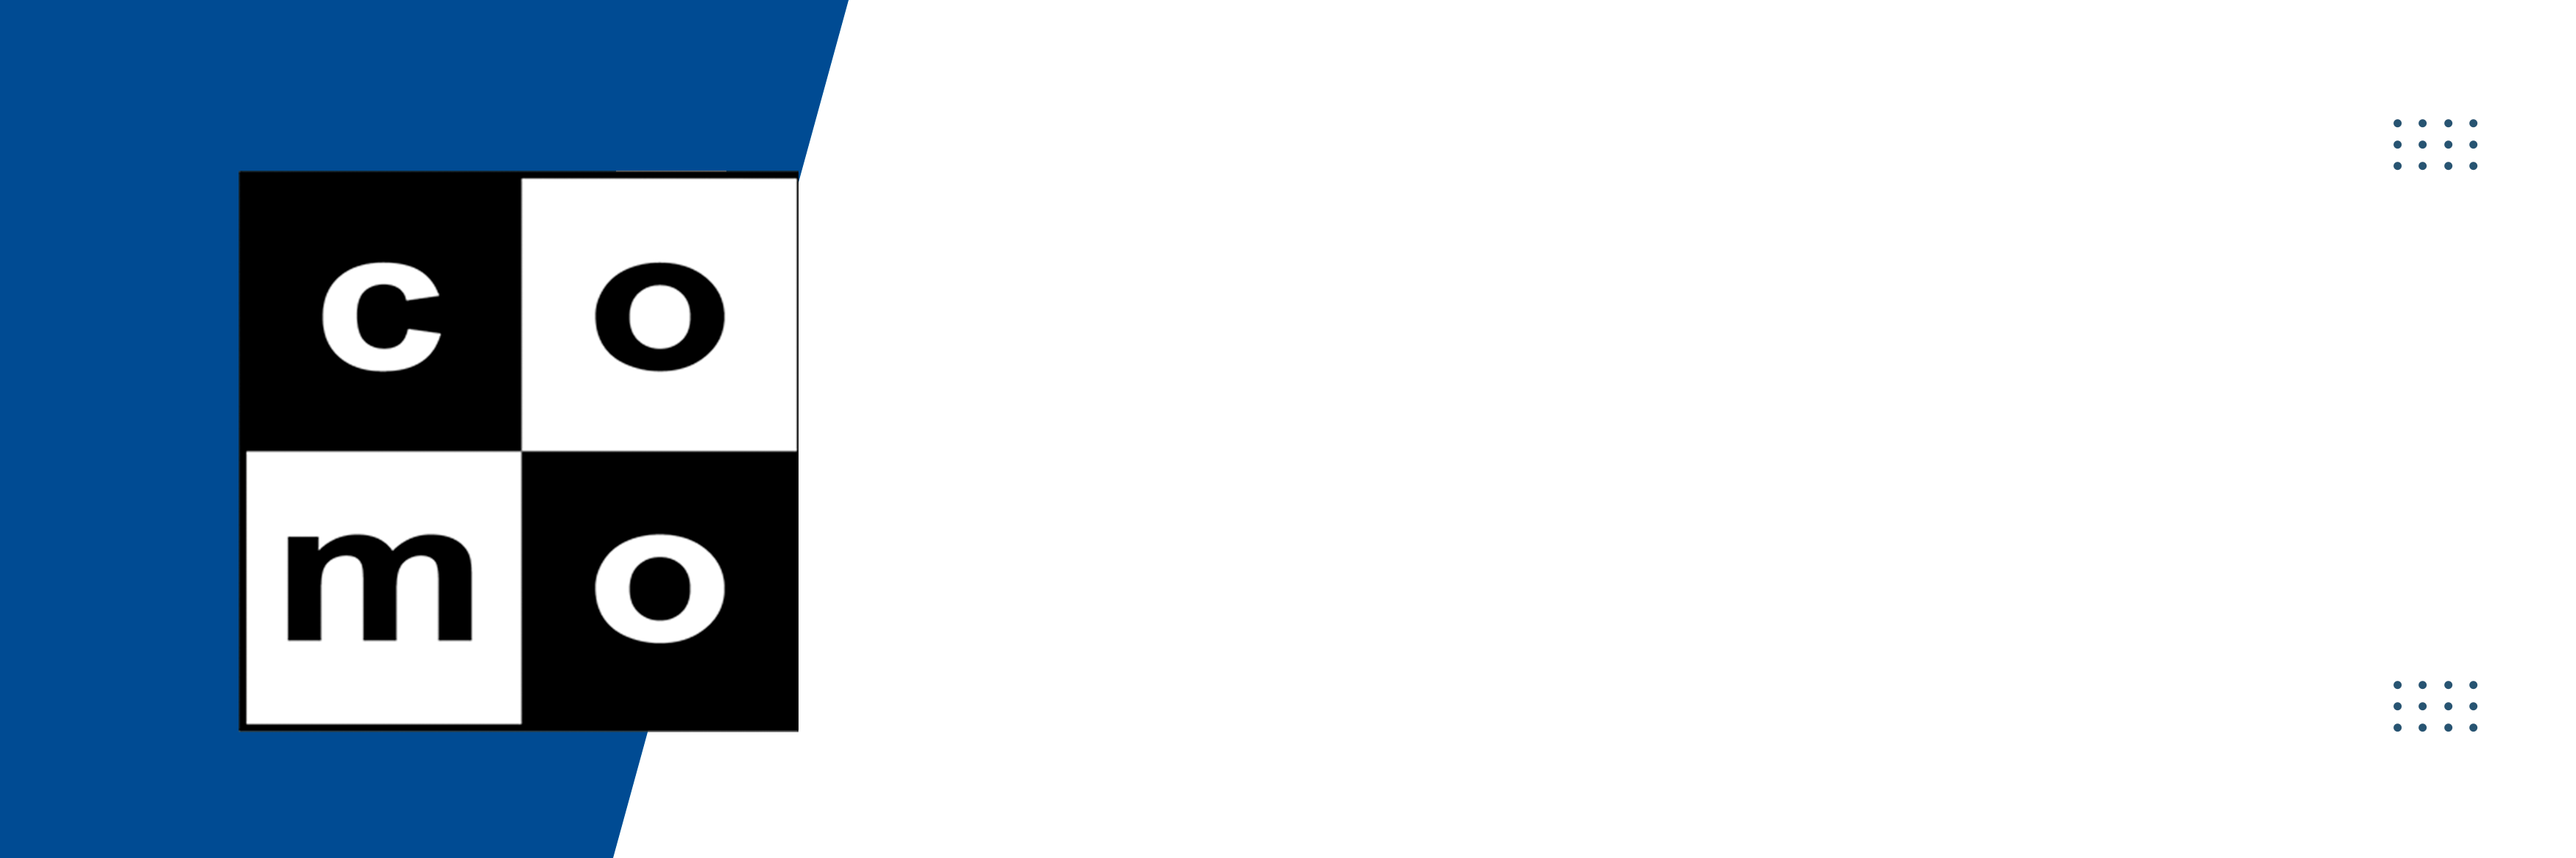
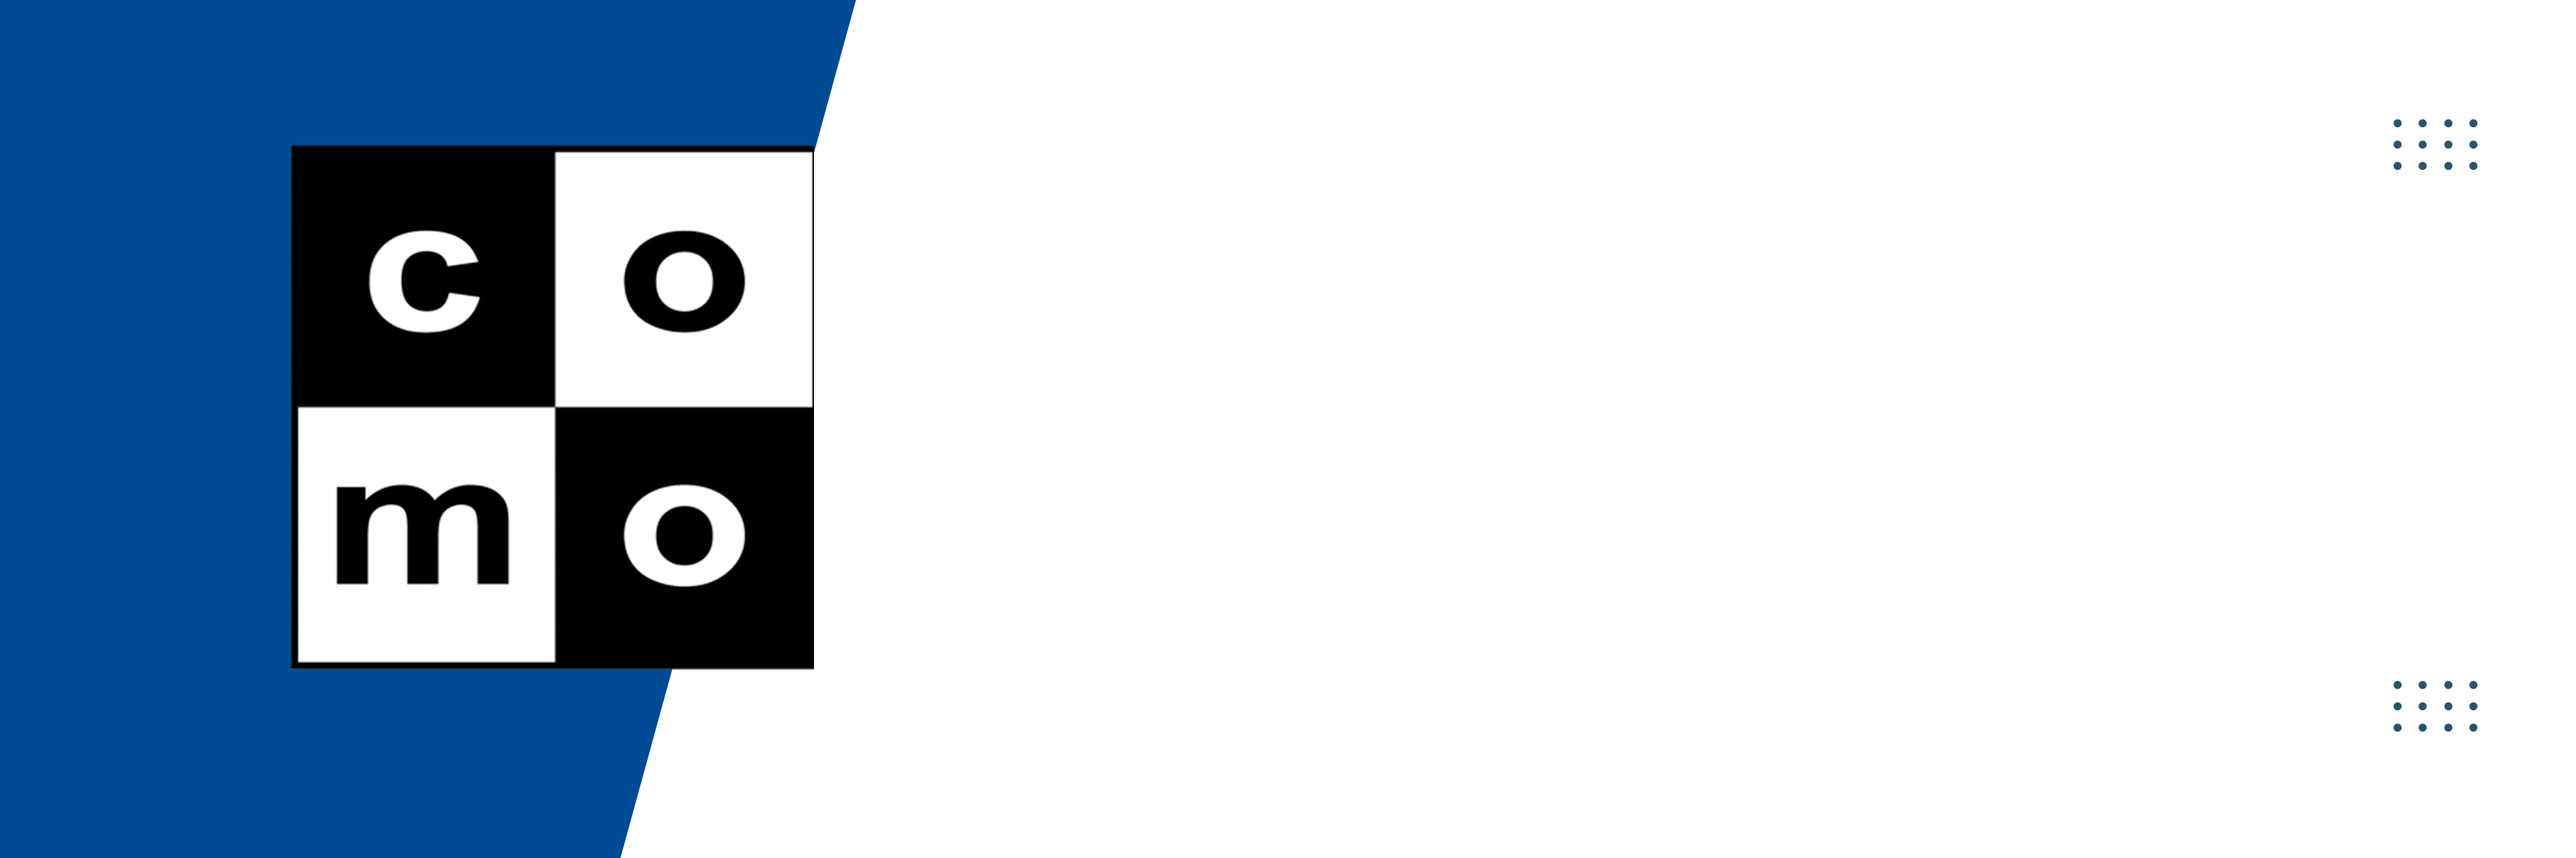
Funcionando

Changed region(s): [[0.0934, 0.1542, 0.3426, 0.8638]]

diff --git a/Css/Generador.css b/Css/Generador.css
@@ -14,13 +14,7 @@ body {
     /* Ensure full viewport height */
 }
 
-.correo-img {
-    width: 100%;
-}
 
-.correo-img-generada {
-    width: 1490px;
-}
 
 .container-info-empleado {
     position: relative;
@@ -105,11 +99,18 @@ ul {
     /* Eliminar el margen predeterminado de la lista */
 }
 
-#firma-generada {
-    height: 368px;  
-      padding: 0px;
-
+.correo-img {
+    height: 411px;
+    width: 1144px;
+    padding: 0px;
 }
+
+#firma-generada{
+    height: 411px;
+    width: 1144px;
+    padding: 0px;
+}
+
 
 /* FOOTER */
 
@@ -134,16 +135,14 @@ ul {
 
 .Qr_Ubicacion {
     position: relative;
-    top: -150px;
-    /* PARA MOVER A LA IZQUIERDA */
-     left: 56%; 
+    top: -549px;
+    left: 91.5%;
 
 }
 .Qr_Ubicacion-Generada {
     position: relative;
-    top: -490px;
-    /* PARA MOVER A LA IZQUIERDA */
-     left: 90.5%; 
+    top: -549px;
+    left: 91.5%;
 
 }
 

diff --git a/Generador.html b/Generador.html
@@ -141,6 +141,9 @@
                     </div>
                 </div>
             </div>
+
+           
+
     </main>
     <div class="container-fluid container-footer">
         <footer class="d-flex flex-wrap justify-content-between align-items-center py-4  border-top  text-light fixed">
